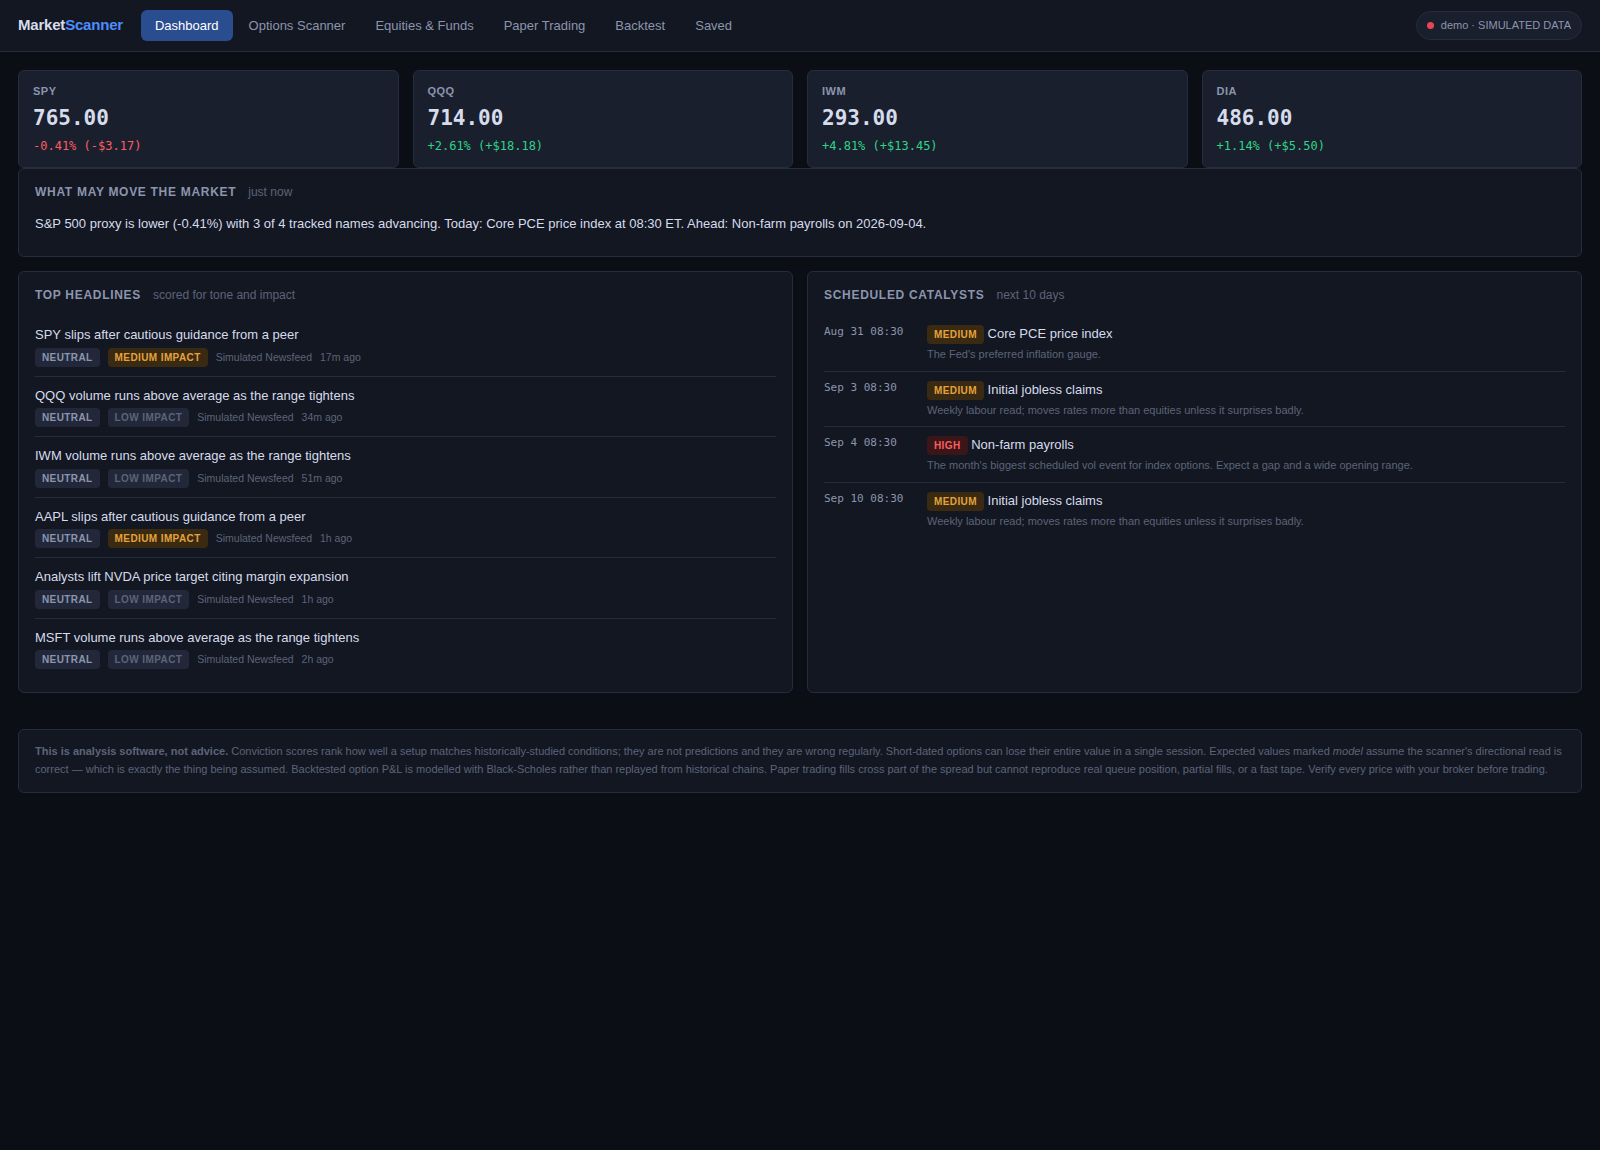
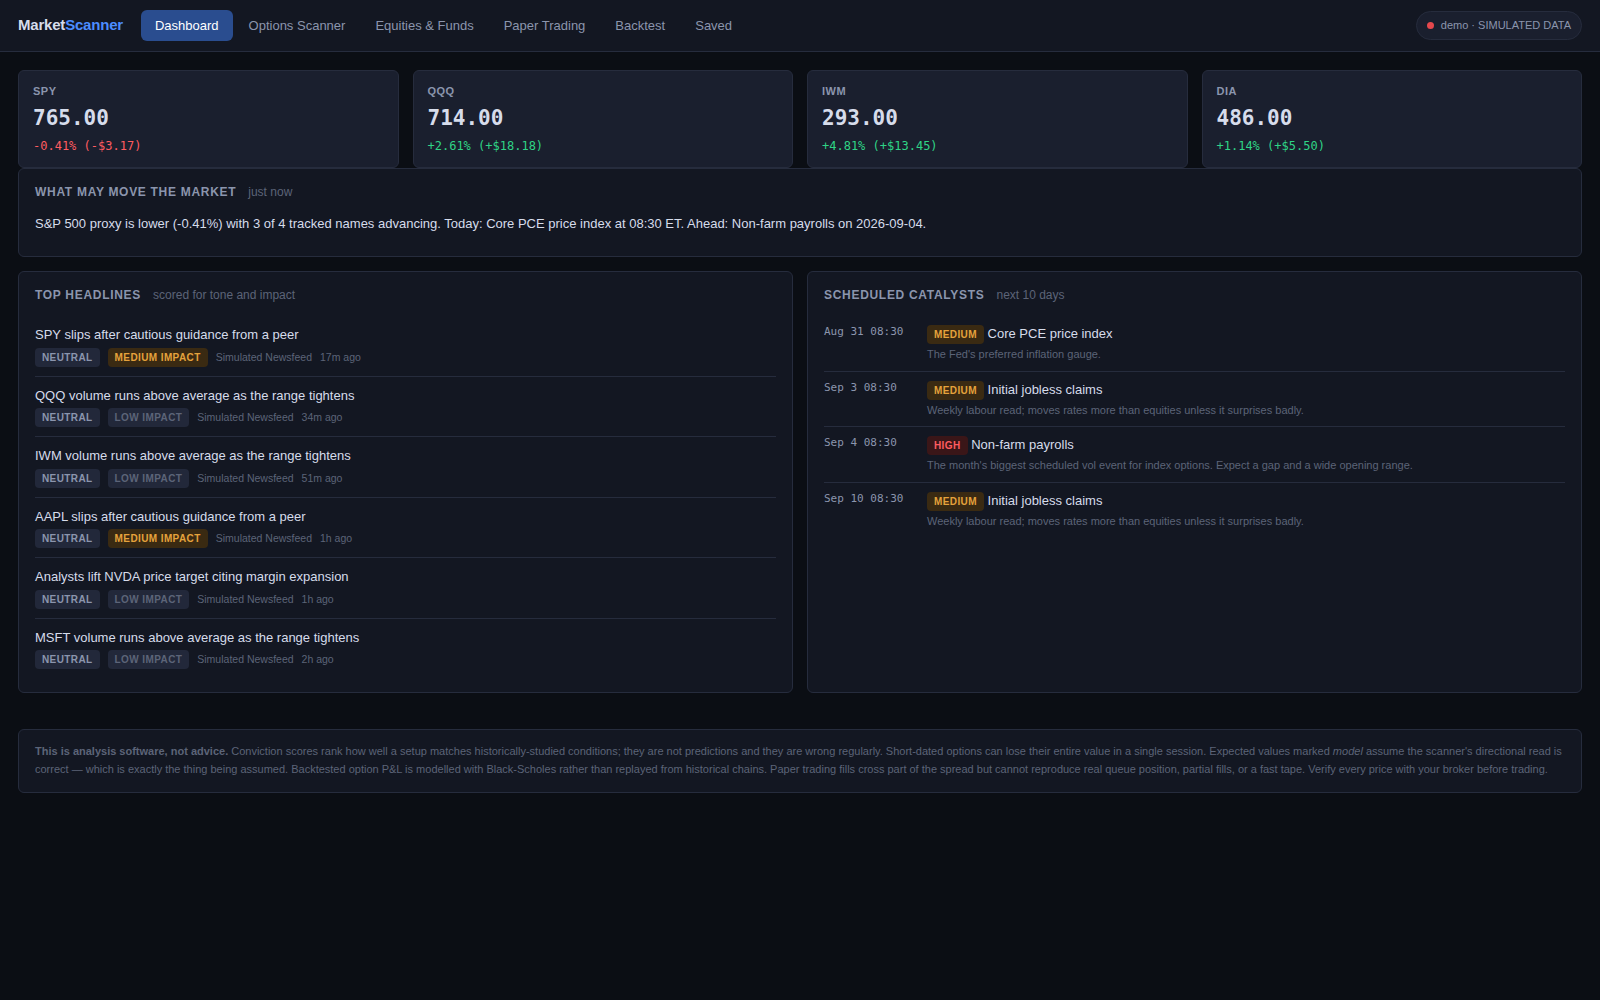
Format chart axes from the data range instead of absolute values
An equity curve running 99,978 to 100,004 printed "100.0k" on every
gridline, and intraday snapshots minutes apart all printed "Aug 31" - so
both axes of the paper trading chart carried no information. Tick labels now
pick their precision from the range being plotted and switch between times,
dates and months based on the span, which keeps the year-long backtest curve
readable too.

Also widens the left gutter so six-figure equity labels are not clipped, and
adds the remaining interface screenshots to the README.

Claude-Session: https://claude.ai/code/session_01GuVDneUVuVFWbGpJLmC7KM

diff --git a/backend/static/app.js b/backend/static/app.js
@@ -380,7 +380,7 @@ function drawPayoff(svg, idea) {
 function drawLine(svg, xs, ys, opts = {}) {
   const w = svg.clientWidth || 560;
   const h = svg.clientHeight || 190;
-  const pad = { l: 52, r: 12, t: 12, b: 22 };
+  const pad = { l: 58, r: 12, t: 12, b: 22 };
   const xMin = Math.min(...xs), xMax = Math.max(...xs);
   let yMin = Math.min(...ys), yMax = Math.max(...ys);
   if (yMin === yMax) { yMin -= 1; yMax += 1; }
@@ -390,18 +390,40 @@ function drawLine(svg, xs, ys, opts = {}) {
   const X = (v) => pad.l + (v - xMin) / (xMax - xMin || 1) * (w - pad.l - pad.r);
   const Y = (v) => h - pad.b - (v - yMin) / (yMax - yMin || 1) * (h - pad.t - pad.b);
 
+  // Tick labels are formatted from the *range*, not the absolute value. An
+  // equity curve running 99,978 -> 100,004 would otherwise print "100.0k" on
+  // every gridline, and intraday snapshots would all print the same date.
+  const yRange = yMax - yMin;
+  const fmtY = (v) => {
+    if (yRange >= 20000) return (v / 1000).toFixed(0) + 'k';
+    if (yRange >= 2000) return (v / 1000).toFixed(1) + 'k';
+    if (yRange >= 100) return v.toFixed(0);
+    if (yRange >= 10) return v.toFixed(1);
+    return v.toFixed(2);
+  };
+
+  const isTime = xMax > 1e11;                    // epoch milliseconds
+  const spanDays = isTime ? (xMax - xMin) / 86400000 : 0;
+  const fmtX = (v) => {
+    if (!isTime) return v.toFixed(0);
+    const d = new Date(v);
+    if (spanDays <= 2) return d.toLocaleTimeString(undefined, { hour: '2-digit', minute: '2-digit' });
+    if (spanDays <= 400) return d.toLocaleDateString(undefined, { month: 'short', day: 'numeric' });
+    return d.toLocaleDateString(undefined, { month: 'short', year: '2-digit' });
+  };
+
   const parts = [];
   // horizontal gridlines + y labels
   for (let i = 0; i <= 4; i++) {
-    const v = yMin + (yMax - yMin) * (i / 4);
+    const v = yMin + yRange * (i / 4);
     const y = Y(v);
     parts.push(`<line x1="${pad.l}" y1="${y}" x2="${w - pad.r}" y2="${y}" stroke="#262c3d" stroke-width="1"/>`);
-    parts.push(`<text x="${pad.l - 6}" y="${y + 3.5}" fill="#5c6478" font-size="9.5" text-anchor="end" font-family="ui-monospace,monospace">${Math.abs(v) >= 1000 ? (v / 1000).toFixed(1) + 'k' : v.toFixed(0)}</text>`);
+    parts.push(`<text x="${pad.l - 6}" y="${y + 3.5}" fill="#5c6478" font-size="9.5" text-anchor="end" font-family="ui-monospace,monospace">${fmtY(v)}</text>`);
   }
   // x labels
   for (let i = 0; i <= 4; i++) {
     const v = xMin + (xMax - xMin) * (i / 4);
-    parts.push(`<text x="${X(v)}" y="${h - 6}" fill="#5c6478" font-size="9.5" text-anchor="middle" font-family="ui-monospace,monospace">${xMax > 3000 ? new Date(v).toLocaleDateString(undefined, { month: 'short', day: 'numeric' }) : v.toFixed(0)}</text>`);
+    parts.push(`<text x="${X(v)}" y="${h - 6}" fill="#5c6478" font-size="9.5" text-anchor="middle" font-family="ui-monospace,monospace">${fmtX(v)}</text>`);
   }
   if (opts.zeroLine && yMin < 0 && yMax > 0) {
     parts.push(`<line x1="${pad.l}" y1="${Y(0)}" x2="${w - pad.r}" y2="${Y(0)}" stroke="#5c6478" stroke-width="1" stroke-dasharray="3,3"/>`);

diff --git a/README.md b/README.md
@@ -9,6 +9,7 @@ Built for the 0–3 day horizon: same-day and few-day expiries, where liquidity
 and time decay matter as much as direction.
 
 ![Dashboard](docs/screenshot-dashboard.png)
+*Market overview: index tiles, a plain-language read of the tape, headlines scored for tone and impact, and the scheduled catalyst calendar.*
 
 ---
 
@@ -20,6 +21,9 @@ constructs the structures that fit that read — long calls/puts, debit vertical
 credit verticals, iron condors, strangles. Each idea comes priced against the
 actual bid/ask with max profit, max loss, breakevens, probability of profit,
 expected value, and a written rationale, risk note and exit plan.
+
+![Options scanner](docs/screenshot-scanner.png)
+*Every idea expands into its rationale, risk note, exit plan, payoff diagram, contract table and the full factor breakdown behind its score.*
 
 **Conviction scores you can audit.** Every score decomposes into nine weighted
 factors, each with a sentence explaining what it saw ("RSI(14) at 74 —
@@ -45,6 +49,9 @@ exactly what you did.
 **Backtesting.** Replays the same scoring rules over history with strict
 no-lookahead, sizing off running equity so a losing run cannot compound past
 a total loss.
+
+![Paper trading](docs/screenshot-paper.png)
+*A paper session started with $100,000: live marks, equity curve, open positions, closed-trade statistics and the full order history.*
 
 ---
 
@@ -260,6 +267,9 @@ The front end is a thin client over a documented REST API — interactive docs a
 | `GET` | `/api/scan/saved`, `/api/backtest/saved` | stored results |
 
 ---
+
+![Backtest](docs/screenshot-backtest.png)
+*Backtest results always state their method above the numbers.*
 
 ## Tests
 
